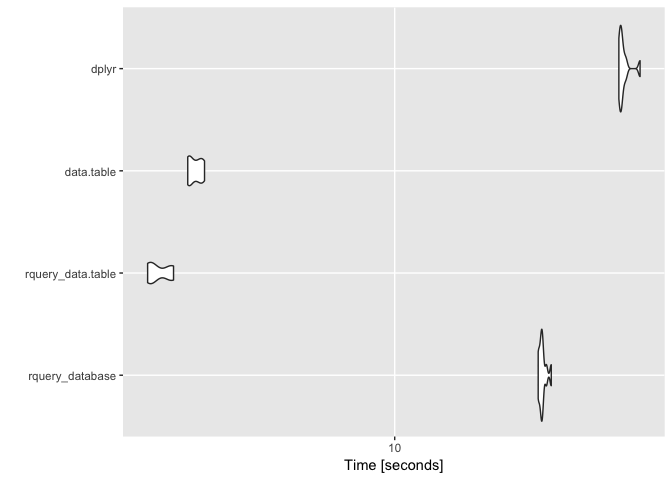
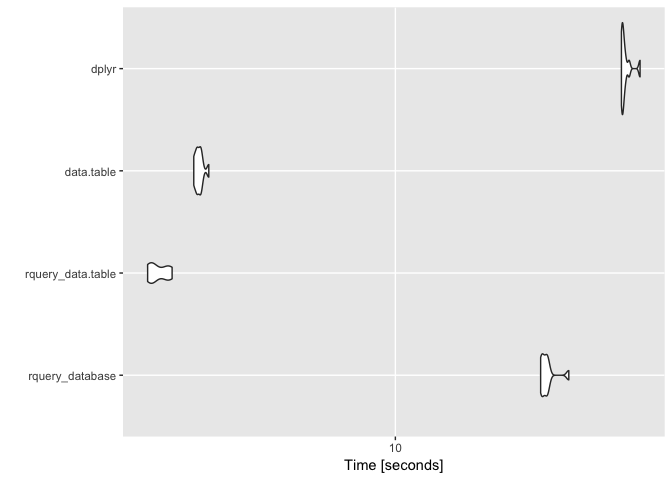
re-run as a check

diff --git a/extras/data_table.md b/extras/data_table.md
@@ -286,15 +286,15 @@ print(timings)
 
     ## Unit: seconds
     ##               expr       min        lq      mean    median        uq
-    ##    rquery_database 25.454224 25.773197 26.182181 26.051107 26.292597
-    ##  rquery_data.table  2.000953  2.041727  2.159701  2.070891  2.323013
-    ##         data.table  2.598339  2.615932  2.728320  2.714212  2.848972
-    ##              dplyr 43.045310 43.256783 44.359776 43.774823 44.511908
+    ##    rquery_database 25.937187 26.147443 27.056254 26.770974 27.095235
+    ##  rquery_data.table  1.968407  1.997359  2.113113  2.053531  2.243977
+    ##         data.table  2.664357  2.719975  2.761548  2.749884  2.791781
+    ##              dplyr 44.068924 44.303141 45.220298 44.563911 45.294210
     ##        max neval
-    ##  27.716502    10
-    ##   2.368721    10
-    ##   2.898287    10
-    ##  49.418618    10
+    ##  31.200949    10
+    ##   2.311344    10
+    ##   2.940137    10
+    ##  49.800809    10
 
 ``` r
 # summarize by hand using rquery database connector
@@ -309,10 +309,10 @@ timings %.>%
 
 | expr               |         mean|
 |:-------------------|------------:|
-| dplyr              |  44359776206|
-| rquery\_database   |  26182180787|
-| rquery\_data.table |   2159700612|
-| data.table         |   2728320460|
+| dplyr              |  45220298061|
+| rquery\_database   |  27056253678|
+| rquery\_data.table |   2113113376|
+| data.table         |   2761548488|
 
 ``` r
 autoplot(timings)
